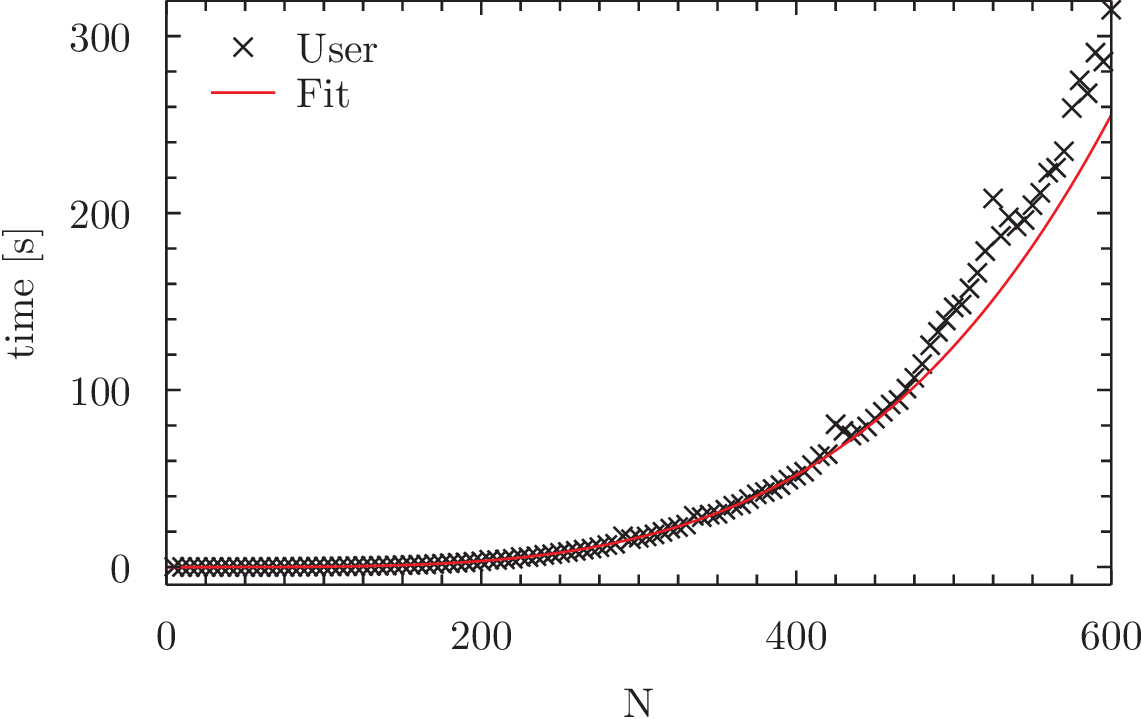
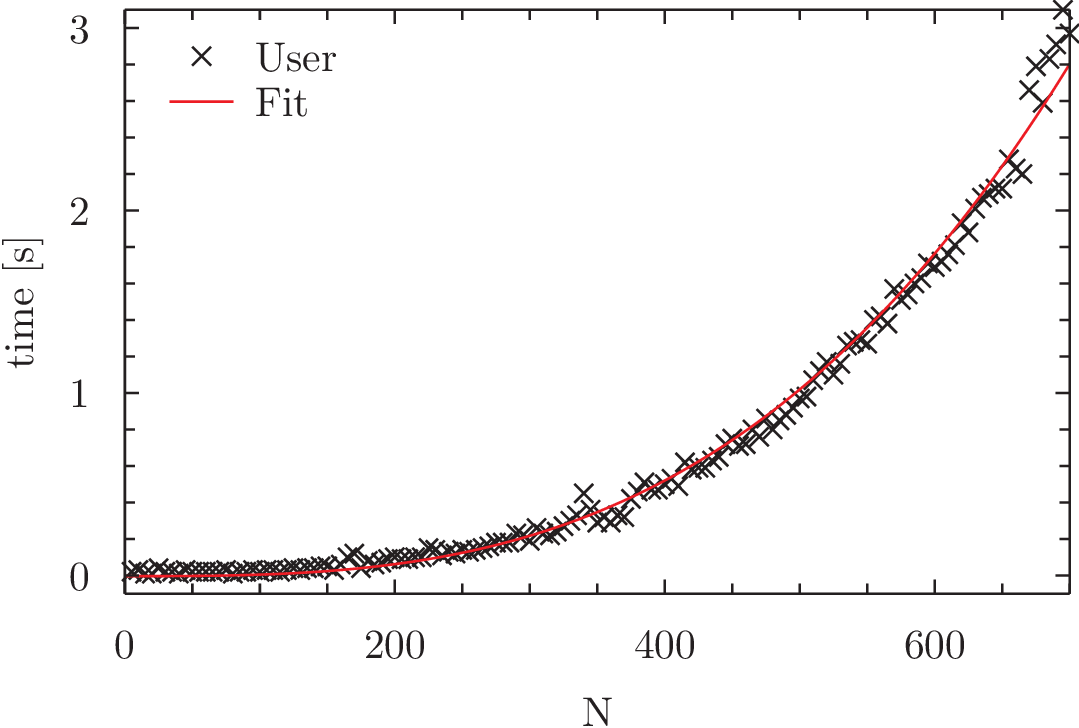
Runs as n^3 now with new algorithm

diff --git a/Homework/linear-equations/C/QR.cs b/Homework/linear-equations/C/QR.cs
@@ -20,18 +20,20 @@ public class QRGS{
 	public QRGS(matrix A){
         n = A.size1;
         m = A.size2;
-        vector[] a = new vector[m]; // m is the number of vectors - not the size of each vector!
-        vector[] q = new vector[m];     
+        // vector[] a = new vector[m]; // m is the number of vectors - not the size of each vector!
+        // vector[] q = new vector[m];     
         Q = new matrix(n,m);
         R = new matrix(n,m);
-        for(int i = 0; i<m; ++i) a[i] = A[i];
+        Q = A.copy();
+        // for(int i = 0; i<m; ++i) a[i] = A[i];
         for(int i = 0; i<m; ++i){
-            q[i] = a[i]/a[i].norm();
+            R[i,i] = Q[i].norm();
+            Q[i] /= R[i,i];
             for(int j=i+1; j<m; ++j){
-                a[j] = a[j] - q[i]%a[j] * q[i];
+                // a[j] = a[j] - q[i]%a[j] * q[i];
+                R[i,j] = Q[i].dot(Q[j]);
+                Q[j] -= Q[i] * R[i,j];
             }
-            Q[i] = q[i];
-        R = Q.transpose()*A;
         }
     }
 	public vector solve(vector b){
